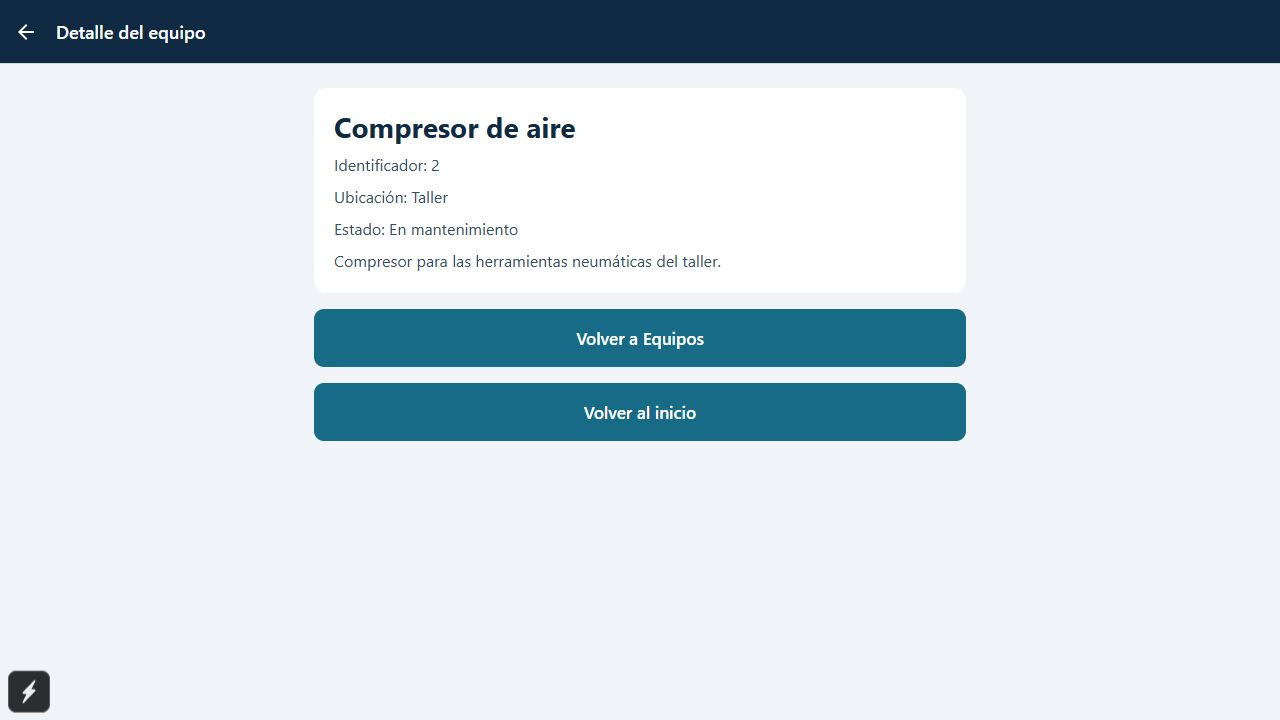
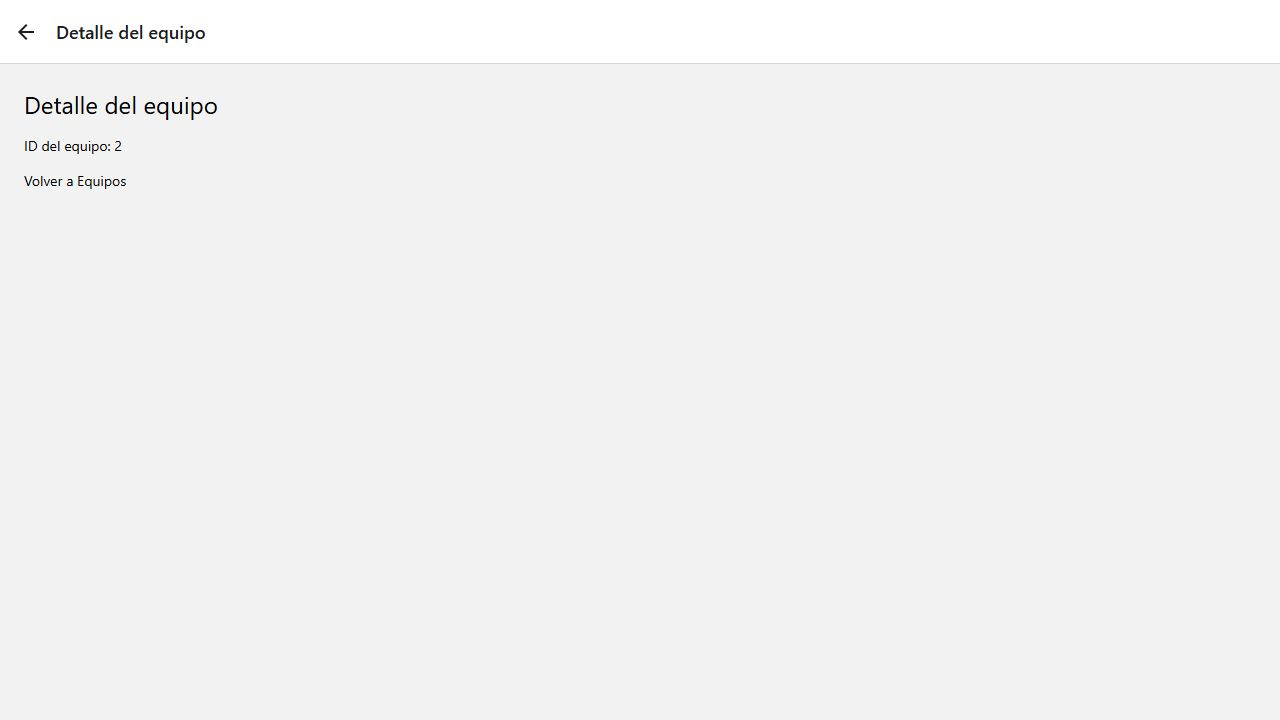
docs: actualizar README y capturas de la version basica

diff --git a/README.md b/README.md
@@ -1,105 +1,86 @@
 # SIGMA · Navegación con Expo Router
 
-Aplicación de práctica para gestionar equipos y tareas de mantenimiento. Implementa la actividad de navegación: un menú de inicio con **Equipos**, **Tareas** y **Nueva tarea**, enlaces mediante `Link` y una pantalla dinámica de detalle de equipos.
+Proyecto de práctica de navegación para SIGMA, una aplicación de gestión de mantenimiento.
 
 **Repositorio público:** [ericVignolo/ProyectoSIGMA](https://github.com/ericVignolo/ProyectoSIGMA).
 
 ## Funcionalidades
 
-- Menú principal con las tres opciones solicitadas.
-- Navegación mediante `Link` y una pila de pantallas con `Stack`.
-- Listado de tres equipos y detalle individual mediante la ruta `/equipos/[id]`.
-- Mensaje de equipo no encontrado para identificadores inexistentes.
-- Listado de tareas y formulario para crear una tarea asociada a un equipo.
-- Validación de la descripción antes de guardar.
-- Botones para volver al inicio y al listado de equipos.
+- Menú inicial con Equipos, Tareas y Nueva tarea.
+- Navegación con `Link` y `Stack` de Expo Router.
+- Dos equipos seleccionables.
+- Detalle que muestra el ID recibido mediante `[id].tsx`.
+- Enlaces para regresar entre pantallas.
+
+Tareas y Nueva tarea son pantallas de presentación. El alcance de esta actividad es la navegación; no se crean ni almacenan tareas.
 
 ## Tecnologías
 
-React Native, Expo SDK 57, Expo Router, React y TypeScript. Los estilos se definen con `StyleSheet` y las tareas se comparten entre pantallas mediante Context API.
+React Native, Expo SDK 57, Expo Router, React y TypeScript. Se utilizan componentes básicos y estilos mínimos de separación y tamaño de texto.
 
-## Requisitos y ejecución
+## Cómo ejecutarlo
 
-- Node.js y npm.
-- Un navegador para la versión web o un dispositivo/emulador compatible con la versión de Expo del proyecto.
-- El proyecto utiliza Expo SDK 57, siguiendo los ejemplos de clase.
-
-Clonar el repositorio y entrar a su carpeta:
+Se necesita Node.js y npm.
 
 ```bash
 git clone https://github.com/ericVignolo/ProyectoSIGMA.git
 cd ProyectoSIGMA
-```
-
-Instalar las dependencias e iniciar Expo:
-
-```bash
 npm install
 npm run start
 ```
 
-Para abrir la aplicación en un teléfono, escaneá el QR con una versión de Expo Go compatible con SDK 57. El teléfono y la computadora deben poder conectarse entre sí por la red. Para usar un emulador Android, iniciarlo previamente y presionar `a` en la terminal de Expo.
+En un teléfono, escanear el QR con Expo Go compatible con SDK 57. El dispositivo y la computadora deben poder conectarse por la red. Para usar un emulador Android, iniciarlo y presionar `a` en la terminal de Expo.
 
-Para ejecutar la versión web:
+Para ejecutar en el navegador:
 
 ```bash
 npm run web
 ```
 
-Abrir la dirección que indique Expo en la terminal. Si el navegador no se abre automáticamente, presionar `w`.
-
-Para comprobar los tipos:
+Abrir la dirección indicada por Expo. Para comprobar los tipos:
 
 ```bash
 npm run typecheck
 ```
 
-## Pantallas y estructura
+## Estructura
 
 ```text
 app/
-  _layout.tsx        Stack de navegación y proveedor de tareas
-  index.tsx          Menú de inicio
+  _layout.tsx       Stack de navegación
+  index.tsx         Menú principal
   equipos/
-    index.tsx        Listado de equipos
-    [id].tsx         Detalle por identificador
-  tareas.tsx         Listado de tareas
-  nueva-tarea.tsx    Formulario de creación
-components/UI.tsx   Componentes y estilos compartidos
-context/            Estado compartido de tareas
-data/equipos.ts     Equipos de ejemplo
-docs/capturas/      Capturas de la aplicación
+    index.tsx       Selección de equipos
+    [id].tsx        Detalle por ID
+  tareas.tsx        Pantalla de tareas
+  nueva-tarea.tsx   Pantalla de nueva tarea
+docs/capturas/      Capturas de la versión web
 app.json            Configuración de Expo
 package.json        Dependencias y comandos
 package-lock.json   Versiones fijadas de las dependencias
 tsconfig.json       Configuración de TypeScript
-.gitignore          Exclusiones del repositorio
+.gitignore          Exclusiones de Git
 ```
 
-| Pantalla | Ruta | Archivo |
-| --- | --- | --- |
-| Inicio | `/` | `app/index.tsx` |
-| Equipos | `/equipos` | `app/equipos/index.tsx` |
-| Detalle de equipo | `/equipos/1`, `/equipos/2`, `/equipos/3` | `app/equipos/[id].tsx` |
-| Tareas | `/tareas` | `app/tareas.tsx` |
-| Nueva tarea | `/nueva-tarea` | `app/nueva-tarea.tsx` |
+## Navegación
 
-Cada botón de navegación utiliza el componente `NavButton`, que combina `Link` de Expo Router con `Pressable` mediante `asChild`. En el listado de equipos se pasa `pathname: '/equipos/[id]'` y el parámetro `id`. La pantalla `[id].tsx` obtiene ese parámetro con `useLocalSearchParams` y busca el equipo correspondiente. Por ejemplo, `/equipos/2` muestra el compresor de aire. Un identificador desconocido muestra “Equipo no encontrado”.
+Expo Router genera las rutas a partir de los archivos en `app/`. El menú usa `Link` con `asChild` para que cada `Pressable` navegue al tocar su texto.
 
-El formulario permite seleccionar un equipo y guardar una tarea con descripción obligatoria. Después de guardarla, `router.replace('/tareas')` muestra el listado actualizado. Las tareas se mantienen en memoria: al recargar la aplicación se restablecen los datos de ejemplo. No se requiere una API ni una base de datos.
+Los enlaces de Equipos utilizan `pathname: '/equipos/[id]'` y envían el ID mediante `params`. Equipo 1 abre `/equipos/1` y Equipo 2 abre `/equipos/2`. La pantalla `[id].tsx` obtiene el parámetro con `useLocalSearchParams` y lo muestra.
 
-## Verificación de la actividad
+`_layout.tsx` configura el `Stack`, que organiza las pantallas, sus títulos y el botón de regreso.
 
-1. Abrir Inicio y comprobar sus tres botones.
-2. Pulsar Equipos y abrir el detalle de cada equipo. Verificar que cambian nombre, identificador, ubicación y estado.
-3. Volver al inicio y abrir Tareas.
-4. Abrir Nueva tarea, seleccionar un equipo y guardar una descripción. Verificar que aparece en Tareas.
-5. Intentar guardar una descripción vacía y comprobar el mensaje de validación.
-6. En web, visitar `/equipos/999` y comprobar el mensaje de equipo no encontrado.
+## Verificación
 
-## Capturas de pantalla
+1. Desde Inicio, abrir Equipos.
+2. Seleccionar Equipo 1 y comprobar que el detalle muestra ID 1.
+3. Volver a Equipos, seleccionar Equipo 2 y comprobar que muestra ID 2.
+4. Volver al inicio y abrir Tareas.
+5. Volver al inicio y abrir Nueva tarea.
 
-Capturas reales de la versión web en ejecución:
+Las capturas documentan la versión web. La comprobación de TypeScript se ejecuta con `npm run typecheck`.
+
+## Capturas
 
 ### Inicio
 
@@ -109,43 +90,32 @@ Capturas reales de la versión web en ejecución:
 
 ![Equipos](docs/capturas/equipos.jpg)
 
-### Detalle mediante ruta dinámica
+### Detalle de Equipo 1
 
-![Detalle dinámico del equipo 2](docs/capturas/detalle-equipo.jpg)
+![Detalle de Equipo 1](docs/capturas/detalle-equipo-1.jpg)
+
+### Detalle de Equipo 2
+
+![Detalle de Equipo 2](docs/capturas/detalle-equipo.jpg)
 
 ### Tareas
 
-![Tareas con una nueva tarea guardada](docs/capturas/tareas.jpg)
+![Tareas](docs/capturas/tareas.jpg)
 
 ### Nueva tarea
 
 ![Nueva tarea](docs/capturas/nueva-tarea.jpg)
 
-## Comprobaciones realizadas
+## Archivos y commits
 
-- `npm run typecheck`: sin errores.
-- Navegación desde Inicio a Equipos y Nueva tarea en el navegador.
-- Selección del compresor: abre `/equipos/2` y muestra sus datos.
-- Descripción vacía: muestra el mensaje de validación.
-- Creación de “Inspeccionar generador”: aparece en Tareas asociada al generador.
-- `/equipos/999`: muestra “Equipo no encontrado”.
+`.gitignore` excluye `node_modules/`, `.expo/`, compilaciones, registros y archivos de entorno. `package-lock.json` se incluye para reproducir la instalación.
 
-Estas comprobaciones se realizaron en la versión web. Las capturas documentan ese entorno de ejecución.
-
-## Historial de desarrollo
-
-El historial registra las etapas de configuración, implementación de la navegación, documentación, fijación de dependencias y agregado de capturas. Se puede consultar en [los commits del repositorio](https://github.com/ericVignolo/ProyectoSIGMA/commits/main/) o desde la terminal:
+El historial conserva las etapas de desarrollo y la simplificación de la aplicación. Consultarlo en [GitHub](https://github.com/ericVignolo/ProyectoSIGMA/commits/main/) o ejecutar:
 
 ```bash
 git log --oneline
 ```
 
-## Archivos del repositorio
-
-El repositorio incluye el código fuente, la configuración, este README, las capturas y `package-lock.json` para reproducir las versiones instaladas.
-
-`.gitignore` excluye `node_modules/`, `.expo/`, `dist/`, `web-build/`, archivos de registro y archivos de entorno. Las dependencias se generan localmente al ejecutar `npm install`.
-
-## URL de entrega
+## Entrega
 
 [https://github.com/ericVignolo/ProyectoSIGMA](https://github.com/ericVignolo/ProyectoSIGMA)
